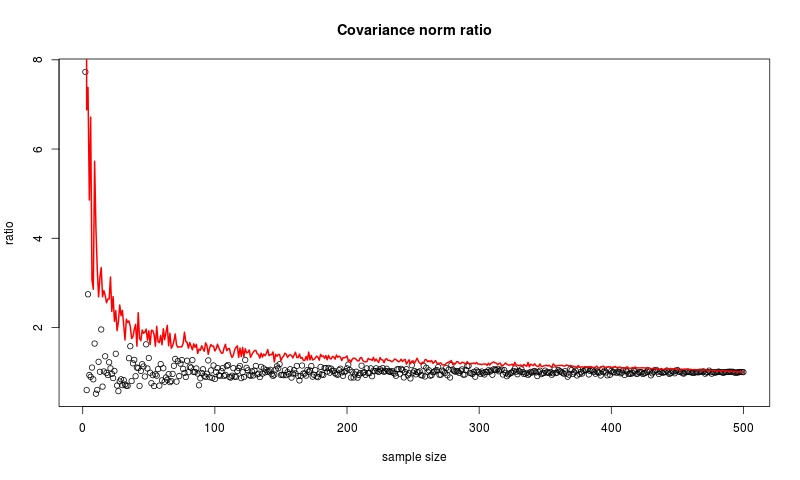
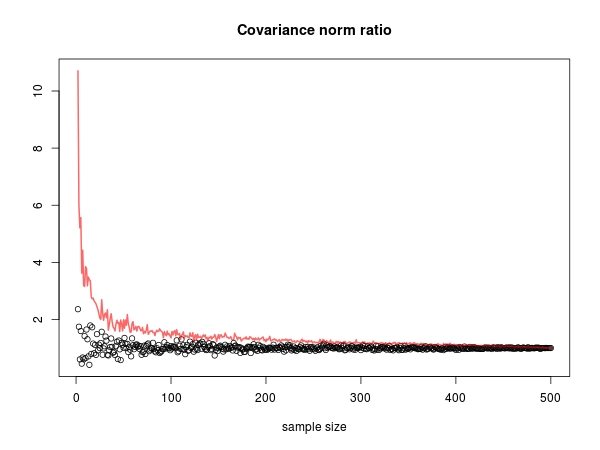
Minor update to covariance bounds notes

Changed region(s): [[0.03, 0.0311, 0.99, 0.9022], [0.45, 0.9333, 0.57, 0.9644], [0.0, 0.4667, 0.03, 0.5289]]

diff --git a/index.html b/index.html
@@ -41,7 +41,7 @@ These are working notes. We'll continue to tweak and revise them.
 <h2>What is covariance?</h2>
 <p>
 Covariance is a matrix-valued function of a data matrix
-$X\in\mathbb{R}^{m\times n}$,
+$X\in\mathbb{R}^{m\times n}$, where $m &ge; n$, and
 $cov:\mathbb{R}^{m\times n} \rightarrow \mathbb{R}^{n\times n}$, defined as:
 \[
 cov(X) = \frac{1}{m-1}\left(X - e e^TX/m\right)^T\left(X - e e^TX/m\right),
@@ -54,9 +54,6 @@ and $X - ee^TX/m$ subtracts the mean from each column, returning a so-called
 We think of the rows of the data matrix as independent observations or measurements
 of some events or things, and the columns as features or variables that we can
 measure.
-
-<p>
-We assume in this note that $m &gt; n$.
 
 <h2>I.i.d. rows and row sampling</h2>
 
@@ -131,7 +128,8 @@ of $X_k$ because, in general when $k \lt m$, $U_k$ does not have
 orthonormal columns.
 
 <p>
-With all that we can derive the following bound:
+Let $\alpha(k) = \frac{m-1}{k-1}$.
+We can derive the following bound:
 \begin{eqnarray}
 \frac{\|cov(X_k)\|}{\|cov(X)\|} &\approx& \frac{(k-1)^{-1}\|X_k^TX_k\|}{(m-1)^{-1}\|X^T X\|} \\
 &=&\alpha(k) \frac{\|V\Sigma U_k^T U_k \Sigma V^T\|}{\| V\Sigma U^T U\Sigma V^T \|}\\
@@ -146,11 +144,12 @@ under matrix multiplication by orthonormal matrices above.
 <p>
 
 The function $\alpha(k)$ is pretty simple, but the behavior of the norm of
-$U_k^T U_k$ is less obvious. As $k$ varies from 1 to $m$, it's monotonically
-non-decreasing between zero and 1, and its growth depends on the data and on
-the ratio of $m$ to $n$. Before exploring that in more detail, let's observe
-this bound with a simple numerical experiment to at least validate its
-plausibility.
+$U_k^T U_k$ is less obvious. When $m=n$ it's easy to see that $\|U_k^T U_k\|=1$
+for all any row sample $k$ and the upper bound is simply $\alpha(k)$.
+When $m &gt; n$ then $\|U_k^T U_k\| &le; 1$ and is
+generally small when the number of sampled rows is small.  Before exploring
+that in more detail, let's observe this bound with a simple numerical
+experiment to at least validate its plausibility.
 
 <pre>
 # Set up an example matrix x with sampled iid rows and known covariance structure
@@ -162,7 +161,7 @@ x = rmvnorm(n=500,mean=1:10,sigma=sigma)
 
 # Generate some row samples
 set.seed(1)
-i = lapply(rep(seq(from=2,to=500,by=1),1), function(j) list(j=j,idx=sample(500,j)))
+i = lapply(seq(from=2,to=500,by=1), function(j) list(j=j,idx=sample(500,j)))
 
 # Plot the ratio of row sample covariance norms to the full matrix covariance norm
 ncx = norm(cov(x),"2")
@@ -172,7 +171,7 @@ plot(a[,1], a[,2]/norm(cov(x),"2"), main="Covariance norm ratio", xlab="sample s
 # Our upper bound
 s = svd(x)
 alpha = t(sapply(i, function(j) c(j$j,(499/(j$j-1))*norm(crossprod(s$u[j$idx,]),"2"))))
-lines(alpha[,1],alpha[,2], col=2,lwd=2)
+lines(alpha[,1],alpha[,2], col="red",lwd=2)
 </pre>
 <img src="bound.jpg" width="800" alt="bound"></img>
 
